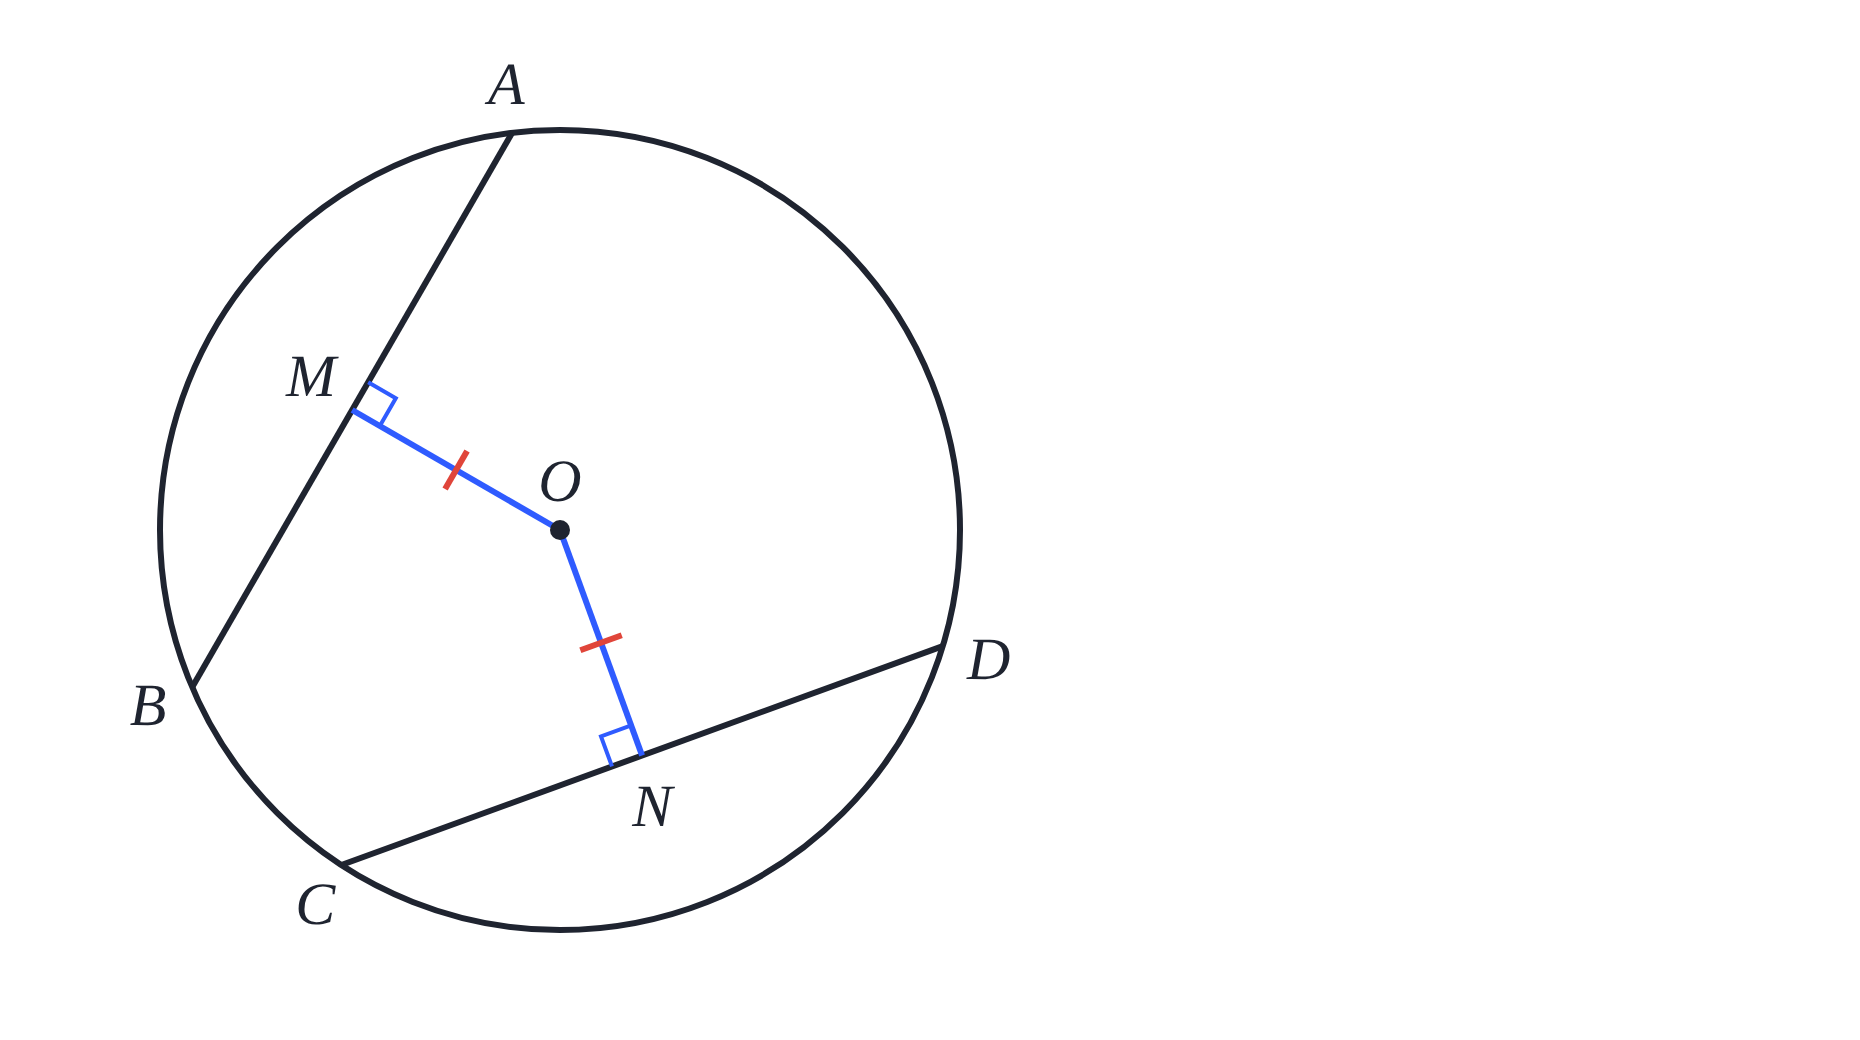
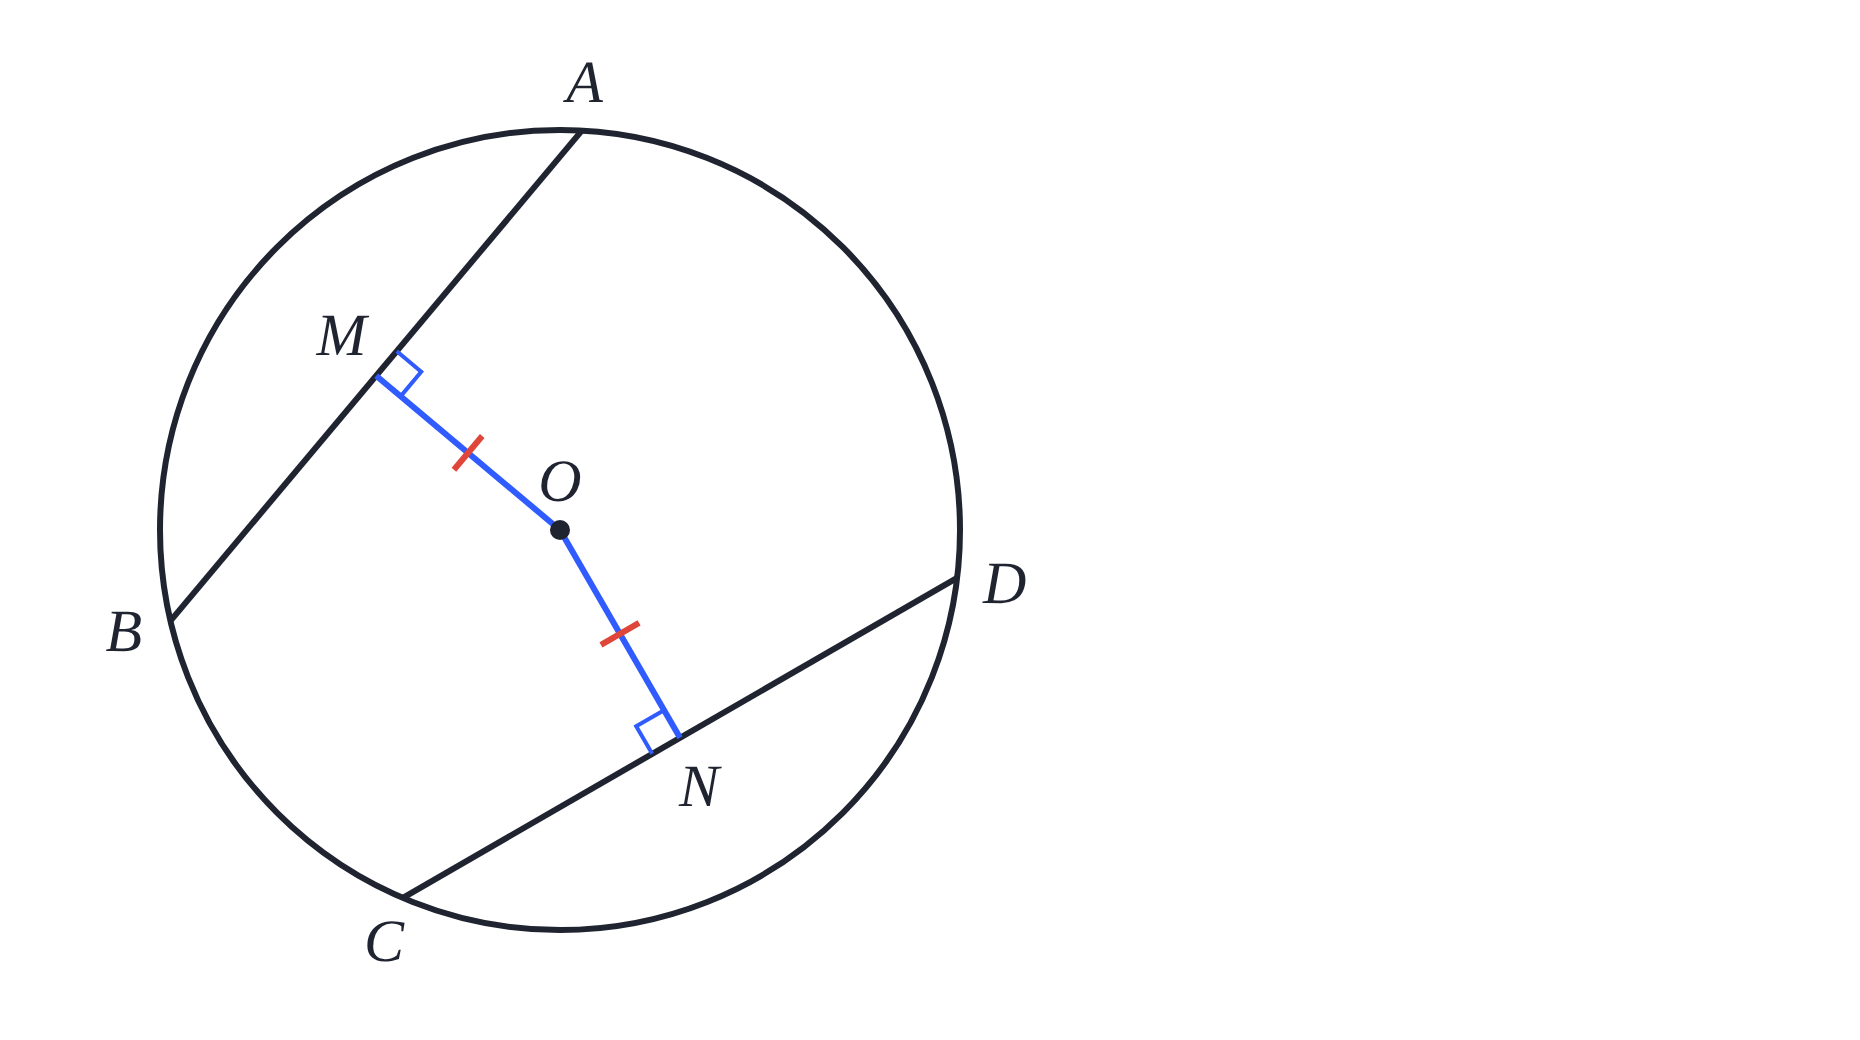
증명 그림: 두 현이 서로 만나지 않고 끝점도 멀리 떨어지게
Claude-Session: https://claude.ai/code/session_01WL82QV9iowrgUhcgeWuxsd

diff --git a/세트/그림/만들기.js b/세트/그림/만들기.js
@@ -31,7 +31,7 @@ function fig(o) {
   out.push(`<circle cx="${cx}" cy="${cy}" r="5" fill="${K}"/>`, lbl([cx, cy], 0, -24, 'O'));
   return out.join('');
 }
-const base = { cx: 250, cy: 250, r: 200, d: 120, ta: 150, tc: 290 };
+const base = { cx: 250, cy: 250, r: 200, d: 120, ta: 140, tc: 300 };
 const svgFig = (o, w, h) => `<svg xmlns="http://www.w3.org/2000/svg" width="${w}" height="${h}" viewBox="0 0 ${w} ${h}">${fig(Object.assign({}, base, o))}</svg>`;
 const pages = {
   '1-성질1-그림.png': `<div class="fig">${svgFig({ ticksOM: 1 }, 500, 500)}<div class="pad"></div></div>`,
